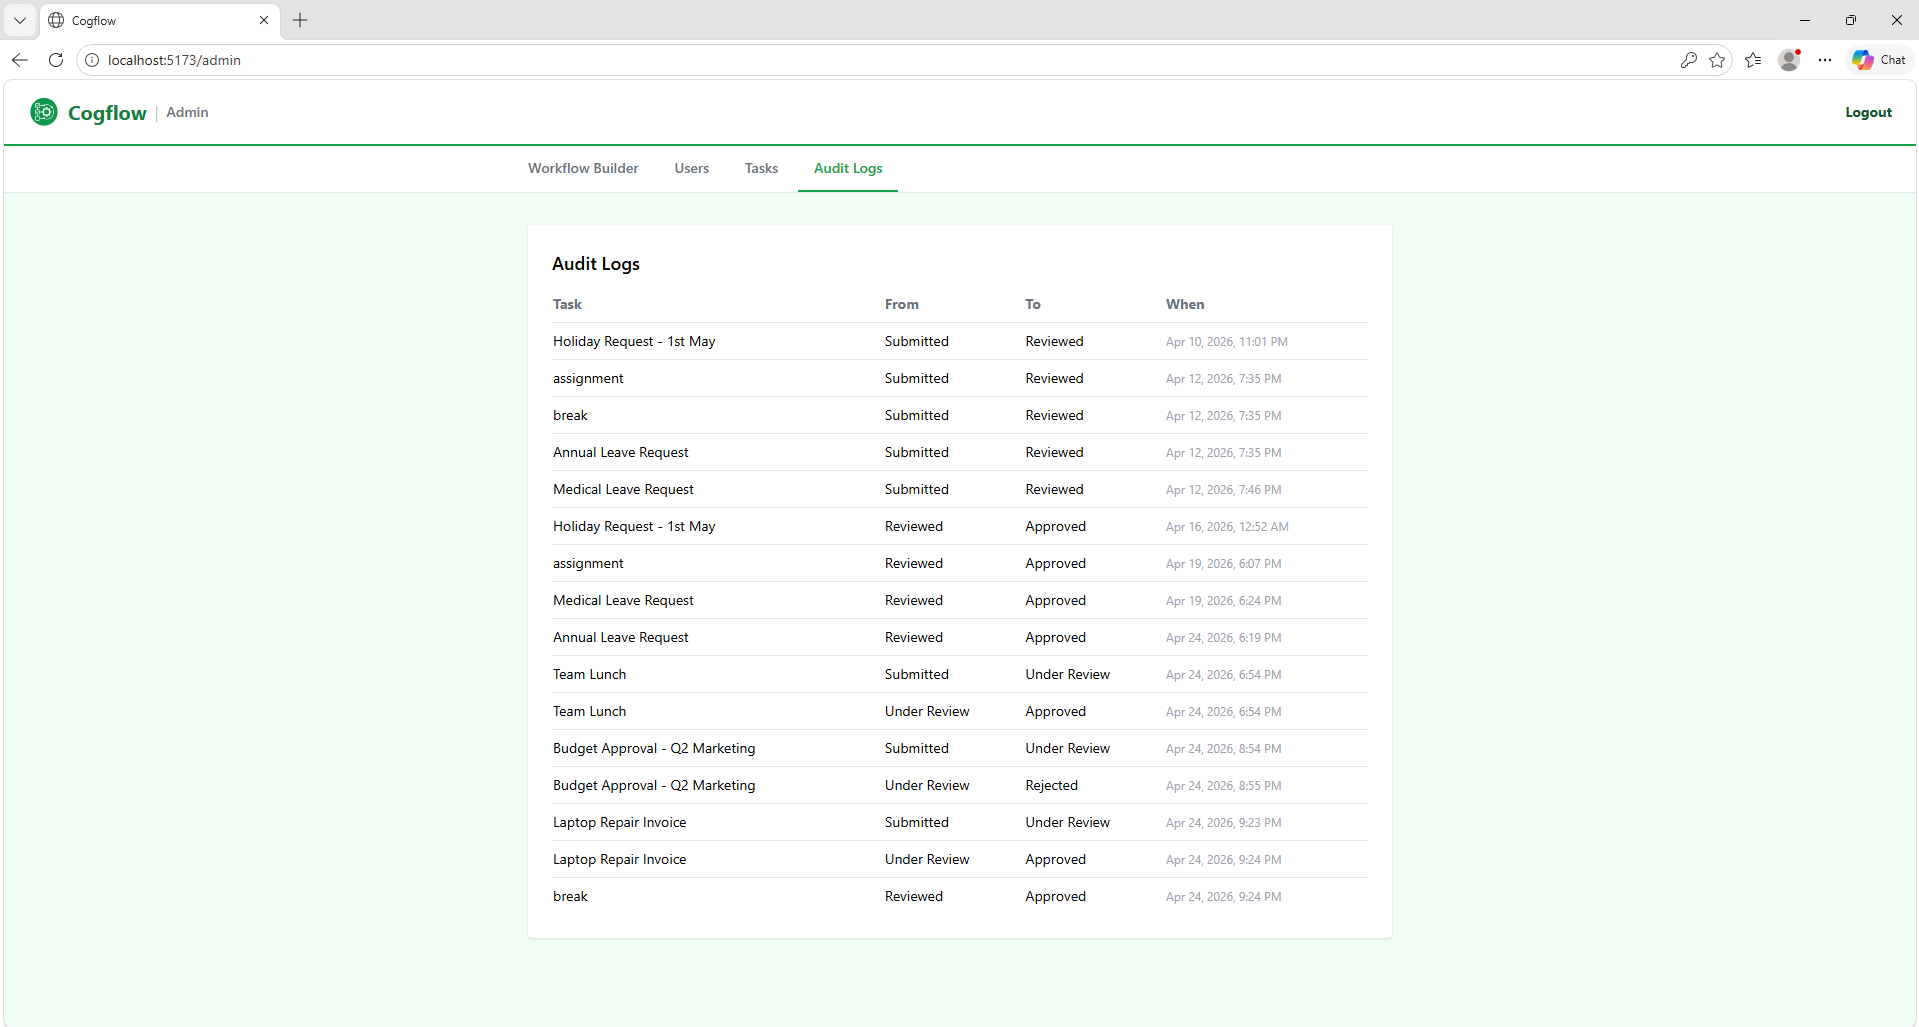
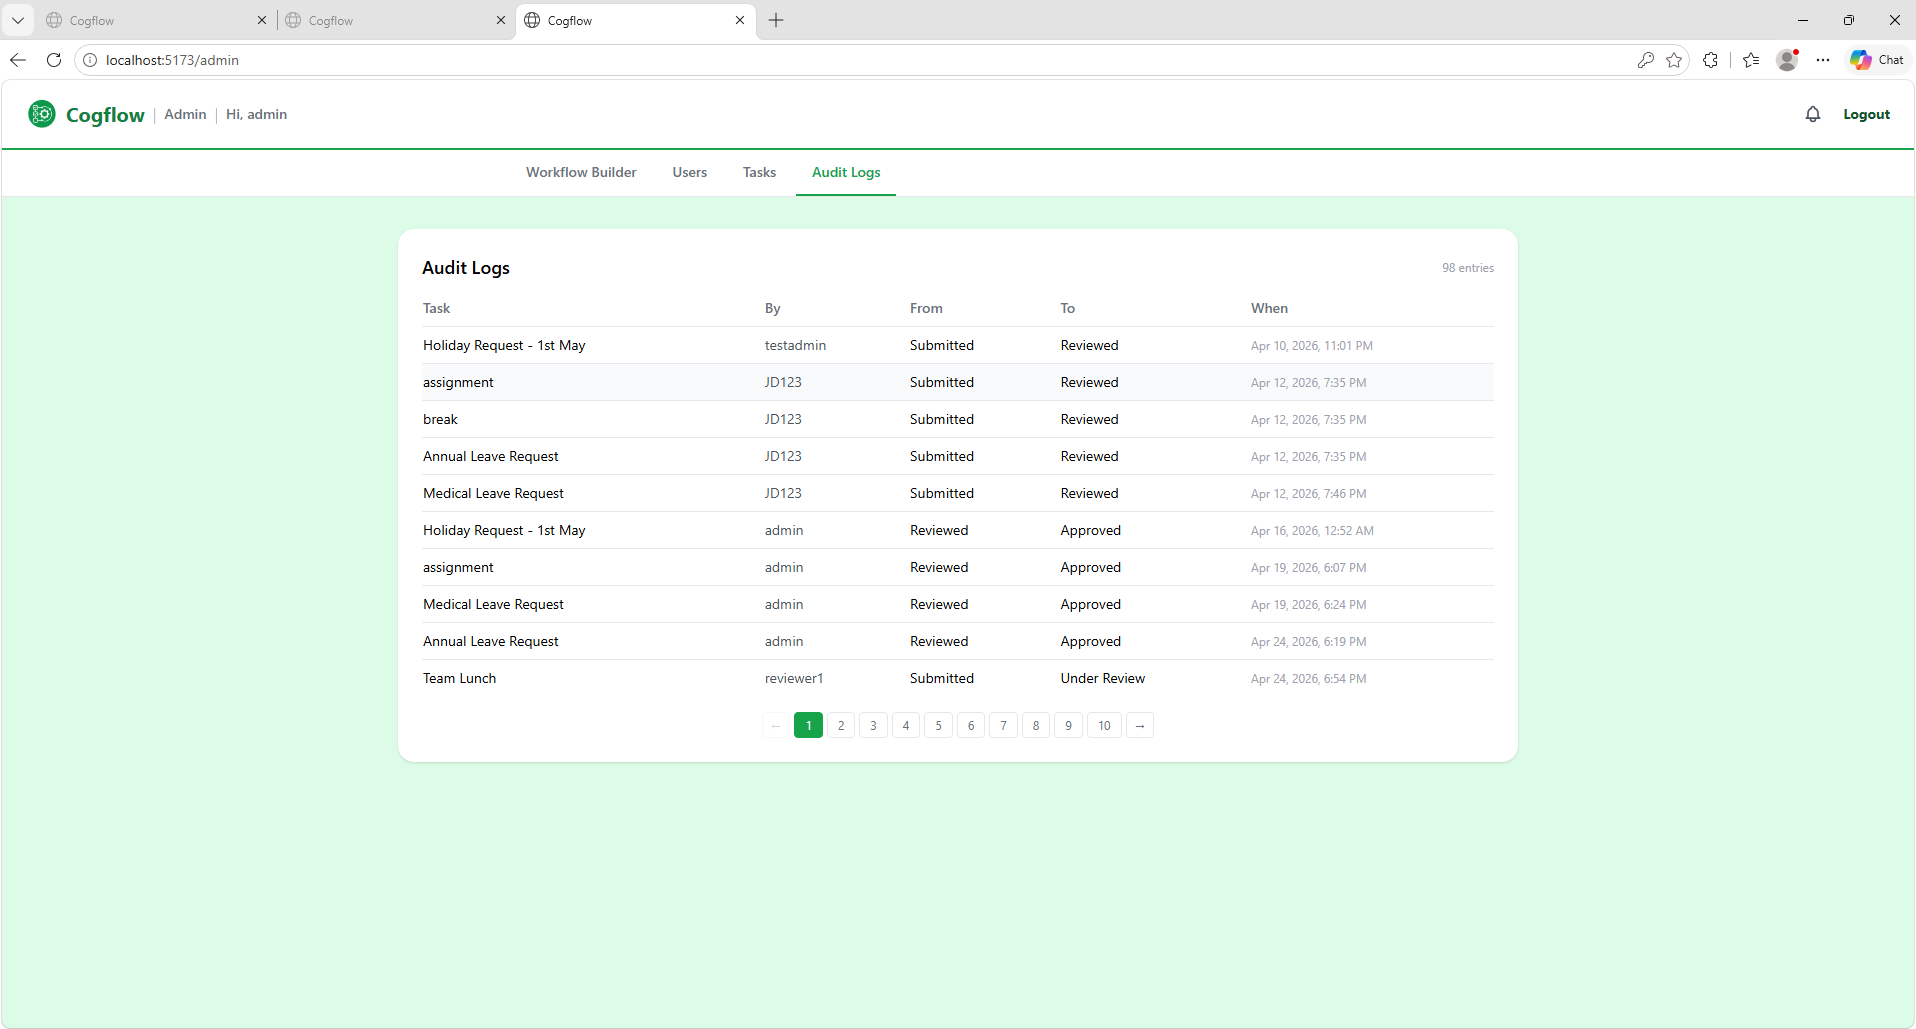
docs: update README

diff --git a/README.md b/README.md
@@ -43,7 +43,7 @@ The project demonstrates backend-enforced RBAC, state-machine transition validat
   </tr>
   <tr>
     <td><img src="docs/screenshots/reviewer_dashboard.png"/></td>
-    <td><img src="docs/screenshots/admin_audit_logs.png"/></td>
+    <td><img src="docs/screenshots/preview-audit.png"/></td>
   </tr>
 </table>
 
@@ -55,9 +55,10 @@ The project demonstrates backend-enforced RBAC, state-machine transition validat
 - Visual workflow canvas showing the state machine as a graph
 - Users submit tasks that are automatically placed in the initial state
 - Role-enforced state transitions — only authorised roles can move a task forward
-- Full audit log of every state transition with timestamps
+- Full audit log of every state transition with timestamps, paginated per role
 - Admin user management: create and deactivate accounts
 - Dead-end state detection — the builder highlights states with no outgoing transitions
+- Real-time WebSocket notifications — bell icon with unread count, per-task read tracking persisted in localStorage, auto-reloads task list on incoming events
 
 **Cogsy — AI Workflow Assistant**
 - Integrated GPT-4o chat assistant for designing workflows from plain English descriptions
@@ -168,6 +169,5 @@ Tests use an isolated SQLite database and cover auth, workflows, states, tasks, 
 ## Roadmap
 
 - Deploy backend to Railway or Render, frontend to Vercel
-- Real-time task notifications via WebSockets
 - Multi-tenancy support
 - Mobile client with React Native + Expo
